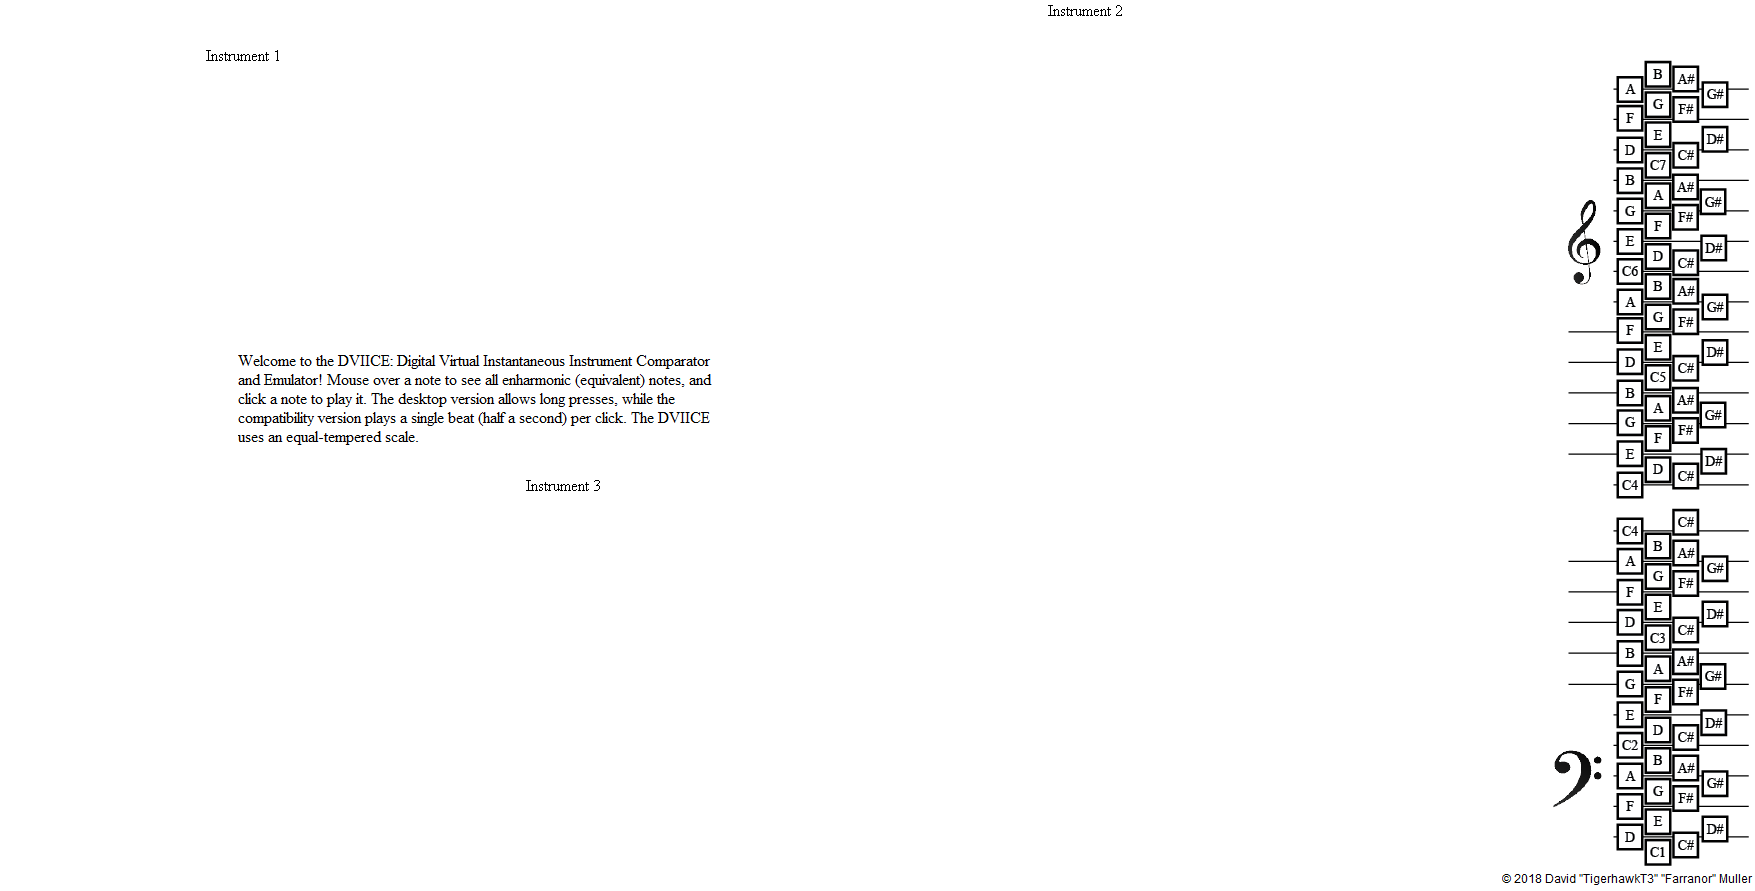
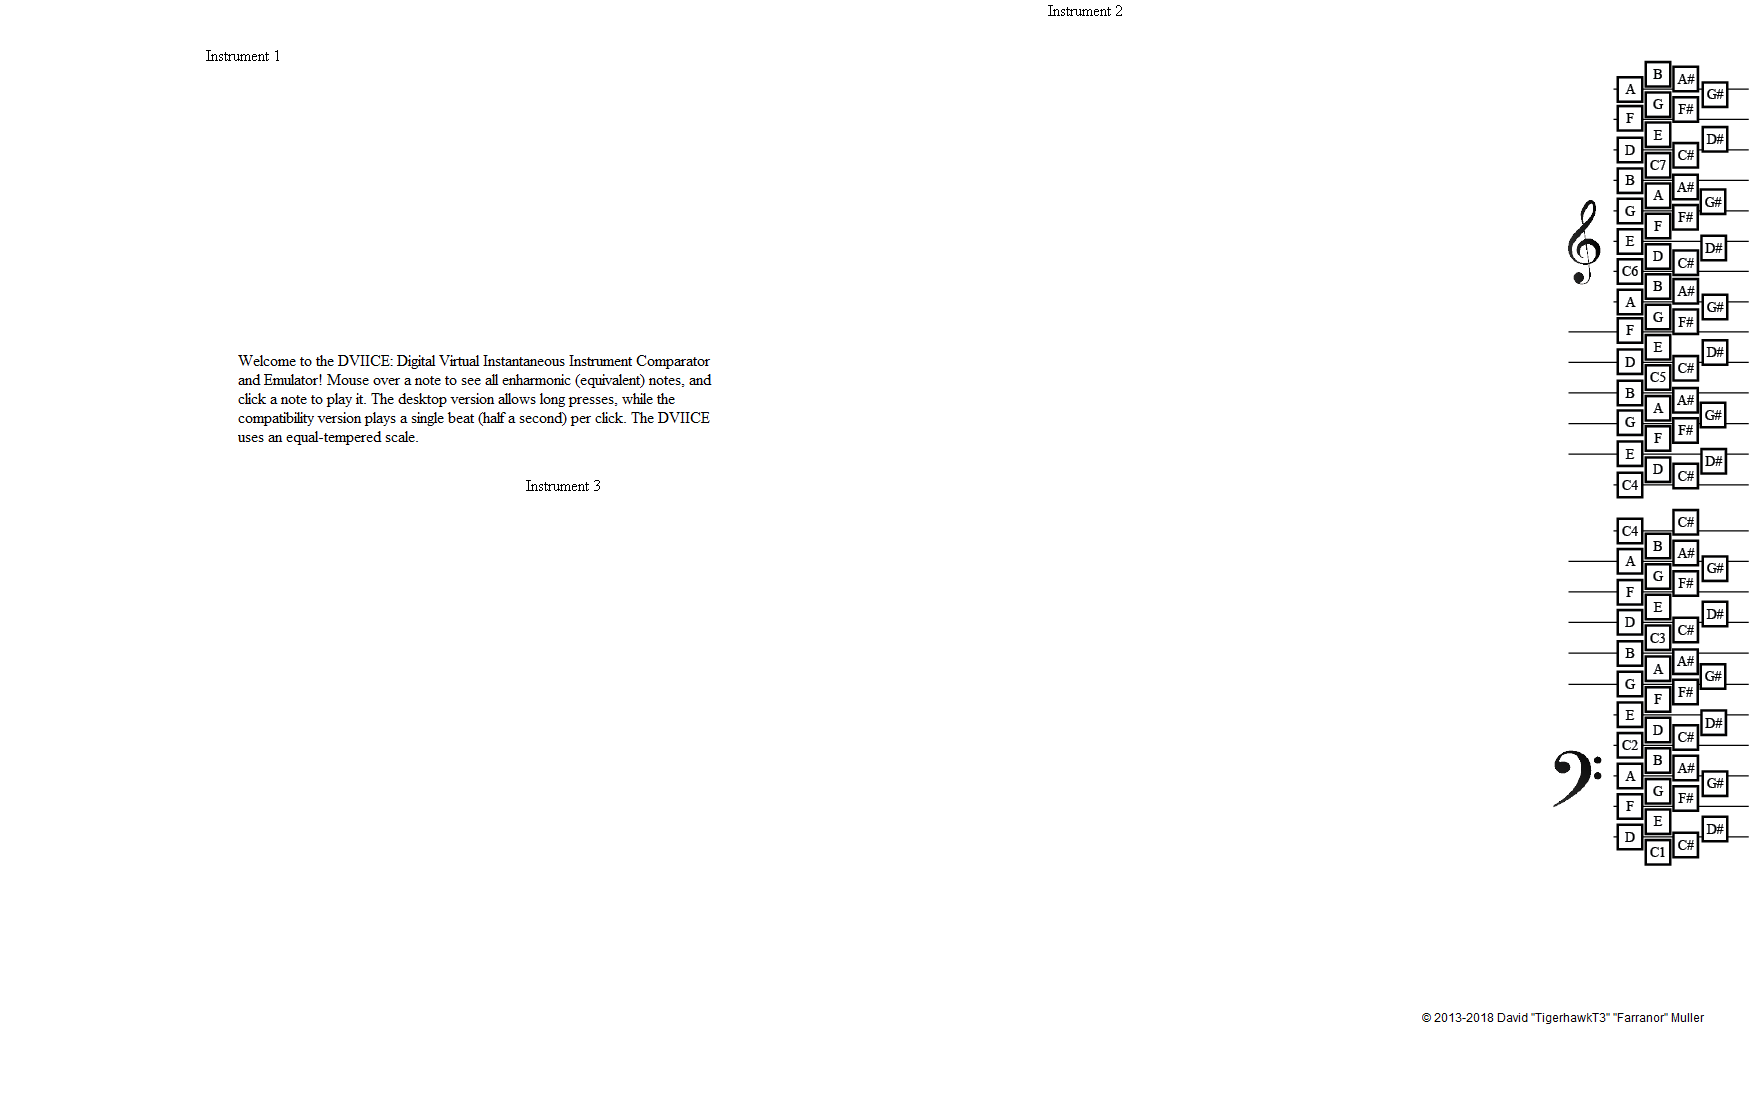
Move some elements to accommodate instruments in zone 3 with 7 rows, expand copyright date to a range.

diff --git a/dviice/v3/style.css b/dviice/v3/style.css
@@ -96,20 +96,20 @@ textarea.textlog
 {
 position:absolute;
 left:26px;
-top:900px;
+top:950px;
 }
 textarea.tempo
 {
 position:absolute;
-left:1500px;
-top:900px;
+left:1420px;
+top:950px;
 resize:none;
 }
 button.player
 {
 position:absolute;
-left:1500px;
-top:930px;
+left:1420px;
+top:980px;
 }
 table.treble1
 {
